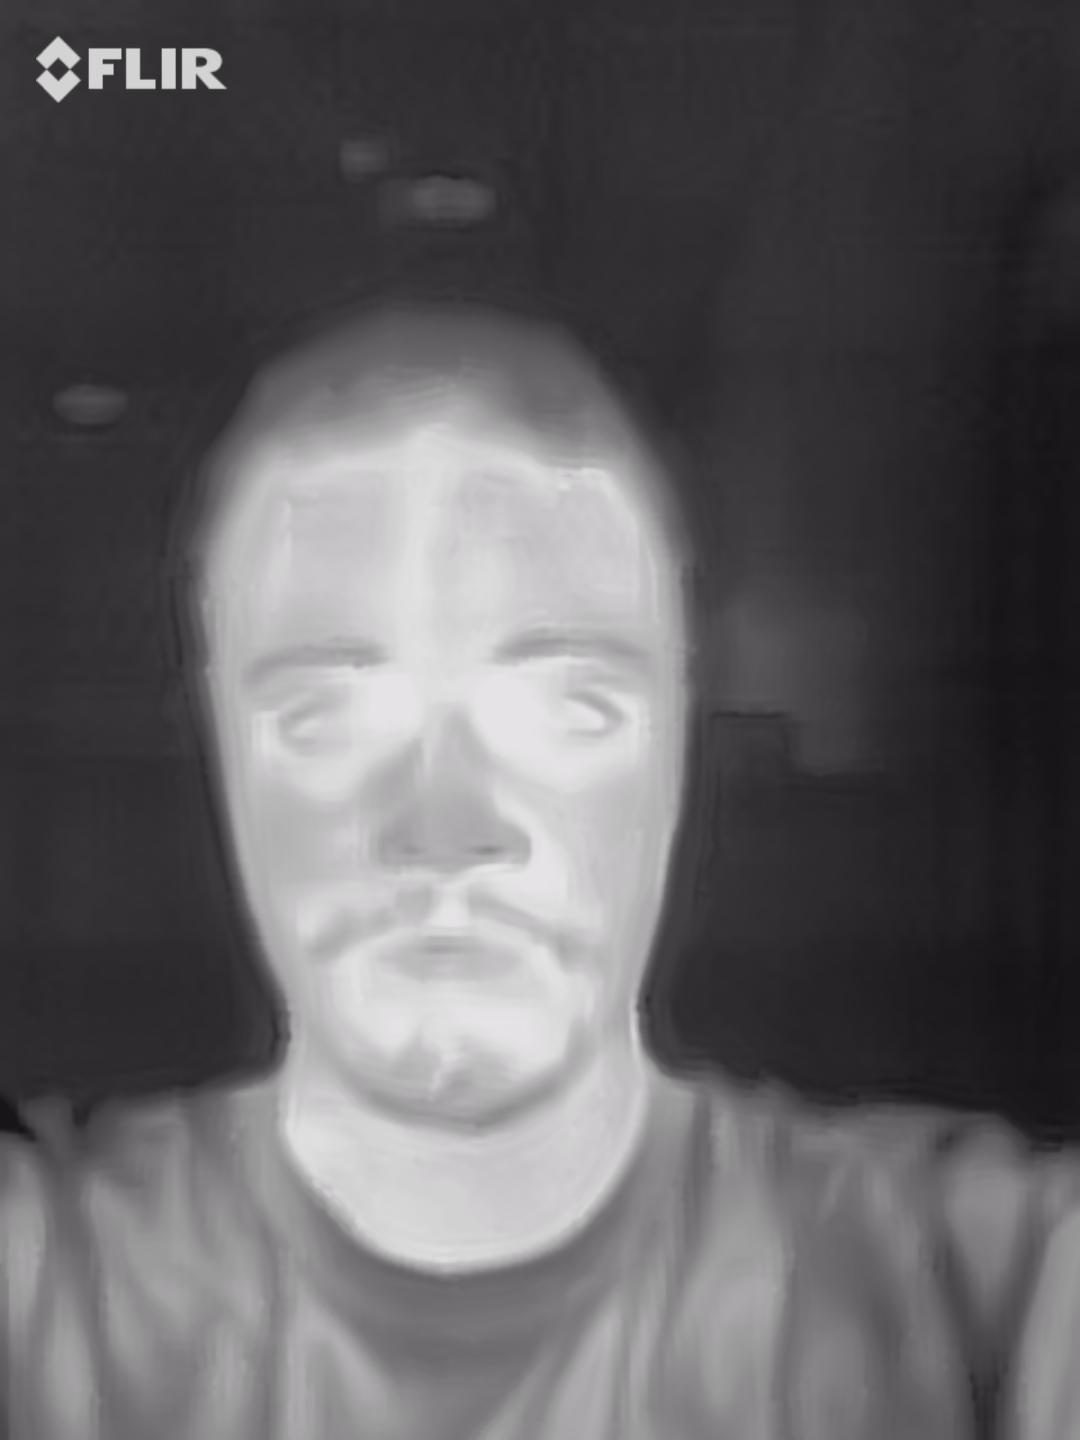
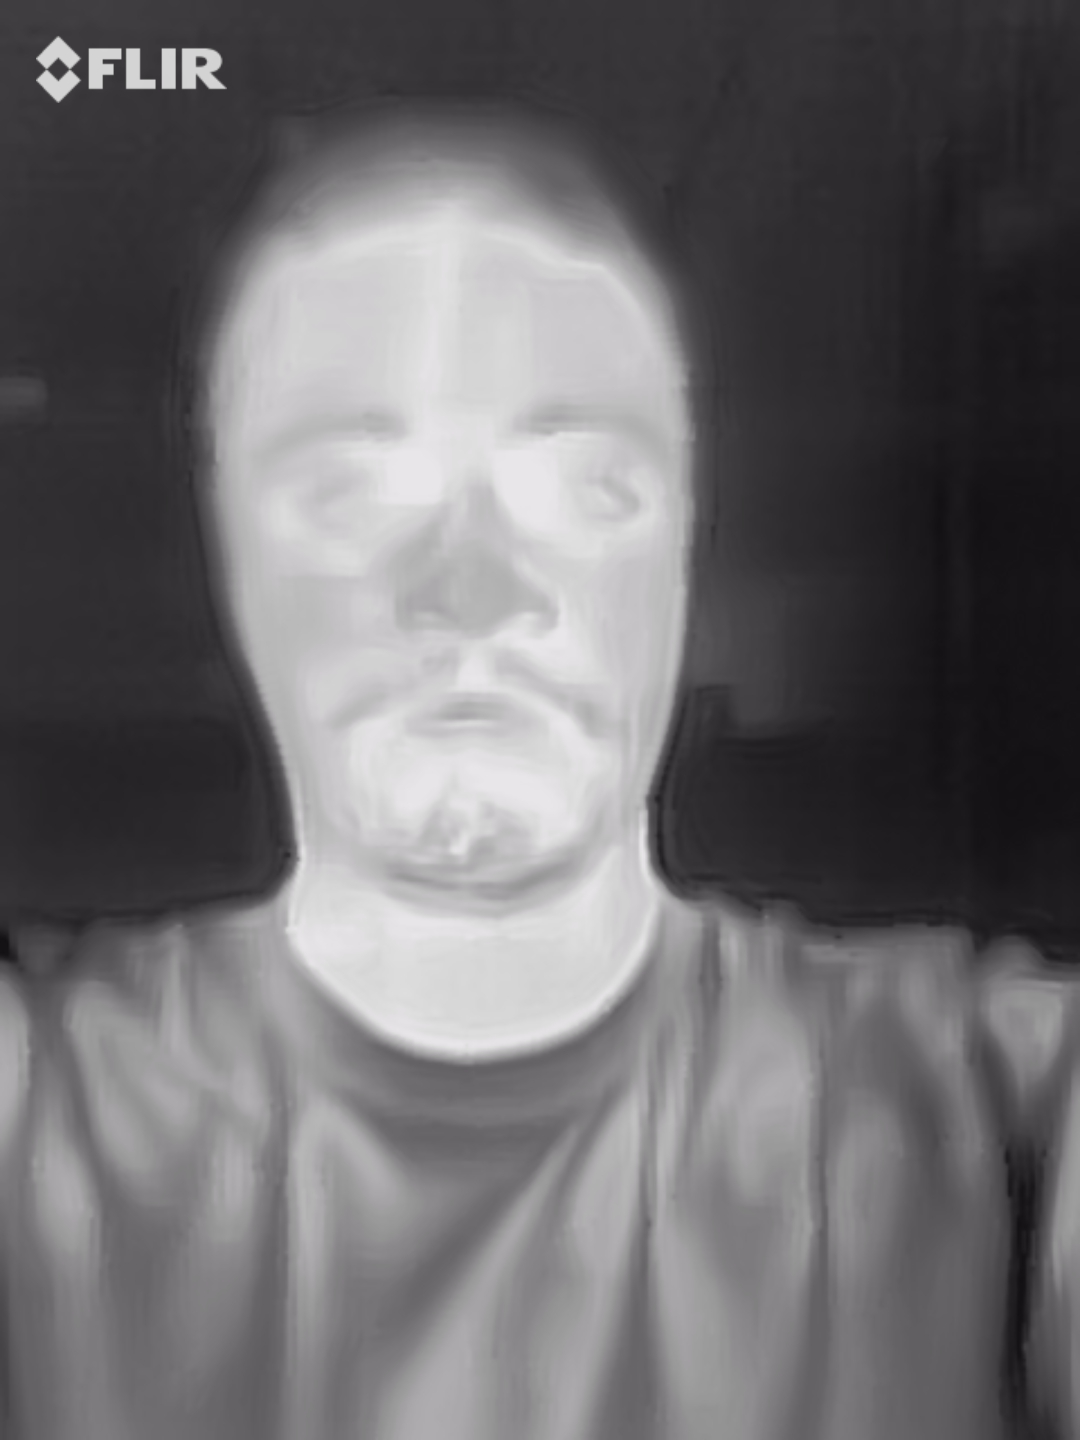
adjusted rgbthermal offset

diff --git a/app/src/main/java/rubenkarim/com/masterthesisapp/Algorithms/RgbThermalAlgorithm.java b/app/src/main/java/rubenkarim/com/masterthesisapp/Algorithms/RgbThermalAlgorithm.java
@@ -9,6 +9,7 @@ import com.flir.thermalsdk.androidsdk.image.BitmapAndroid;
 import com.flir.thermalsdk.image.ImageFactory;
 import com.flir.thermalsdk.image.JavaImageBuffer;
 import com.flir.thermalsdk.image.ThermalImageFile;
+import com.flir.thermalsdk.image.fusion.FusionMode;
 import com.google.android.gms.tasks.OnFailureListener;
 import com.google.android.gms.tasks.OnSuccessListener;
 import com.google.android.gms.tasks.Task;
@@ -48,30 +49,31 @@ public class RgbThermalAlgorithm {
 
     public void getGradientAndPositions(String thermalImagePath) {
         GradientModel gradientAndPositions = new GradientModel(100, null, null);
-        Bitmap thermalImage = ImageProcessing.convertToBitmap(thermalImagePath);
-        Bitmap imageConvertedToRgb = null;
-        double thermalImageWidth = thermalImage.getWidth();
-        double thermalImageHeight = thermalImage.getHeight();
-        double rgbImageWidth = 0;
-        double rgbImageHeight = 0;
-        double widthScalingFactor;
-        double heightScalingFactor;
+        Bitmap rgbImage = ImageProcessing.convertToBitmap(thermalImagePath);
+        double rgbImageWidth = rgbImage.getWidth();
+        double rgbImageHeight = rgbImage.getHeight();
+        double thermalImageWidth = 0;
+        double thermalImageHeight = 0;
+        int verticalOffset = 15;
+        int horizontalOffset = 10;
 
         try {
             ThermalImageFile thermalImageFile = (ThermalImageFile) ImageFactory.createImage(thermalImagePath);
-            JavaImageBuffer rgbImage = thermalImageFile.getFusion().getPhoto();
-            imageConvertedToRgb = BitmapAndroid.createBitmap(rgbImage).getBitMap();
-            rgbImageWidth = imageConvertedToRgb.getWidth();
-            rgbImageHeight = imageConvertedToRgb.getHeight();
+            thermalImageFile.getFusion().setFusionMode(FusionMode.THERMAL_ONLY);
+            JavaImageBuffer javaImageBuffer = thermalImageFile.getImage();
+            Bitmap thermalImage = BitmapAndroid.createBitmap(javaImageBuffer).getBitMap();
+            thermalImageWidth = thermalImage.getWidth();
+            thermalImageHeight = thermalImage.getHeight();
         }
         catch (IOException e) {
-            Logging.error("getGradientAndPosition", e);
+            Logging.error("getGradientAndPositions", e);
         }
 
-        widthScalingFactor = thermalImageWidth / rgbImageWidth;
-        heightScalingFactor = thermalImageHeight / rgbImageHeight;
+        // TODO: Remember to remove
+        double widthScalingFactor = thermalImageWidth / rgbImageWidth;
+        double heightScalingFactor = thermalImageHeight / rgbImageHeight;
 
-        FirebaseVisionImage firebaseVisionImage = ImageProcessing.convertToFirebaseVisionImage(imageConvertedToRgb);
+        FirebaseVisionImage firebaseVisionImage = ImageProcessing.convertToFirebaseVisionImage(rgbImage);
 
         FirebaseVisionFaceDetectorOptions options =
                 new FirebaseVisionFaceDetectorOptions.Builder()
@@ -102,12 +104,12 @@ public class RgbThermalAlgorithm {
                                             FirebaseVisionFaceLandmark leftEye = faces.get(0).getLandmark(FirebaseVisionFaceLandmark.LEFT_EYE);
                                             if (leftEye != null) {
                                                 // TODO: Split into multiple lines in order to debug
-                                                gradientAndPositions.setEyePosition(new int[]{(int) (leftEye.getPosition().getX() * widthScalingFactor), (int) (leftEye.getPosition().getY() * heightScalingFactor)});
+                                                gradientAndPositions.setEyePosition(new int[]{(int) (leftEye.getPosition().getX() * widthScalingFactor + horizontalOffset), (int) (leftEye.getPosition().getY() * heightScalingFactor + verticalOffset)});
                                             }
                                             FirebaseVisionFaceLandmark nose = faces.get(0).getLandmark(FirebaseVisionFaceLandmark.NOSE_BASE);
                                             if (nose != null) {
                                                 // TODO: Split into multiple lines in order to debug
-                                                gradientAndPositions.setNosePosition(new int[]{(int) (nose.getPosition().getX() * widthScalingFactor), (int) (nose.getPosition().getY() * heightScalingFactor)});
+                                                gradientAndPositions.setNosePosition(new int[]{(int) (nose.getPosition().getX() * widthScalingFactor), (int) (nose.getPosition().getY() * heightScalingFactor + verticalOffset)});
                                             }
 
                                             ((MarkerActivity) markerActivityReference).setPicture(gradientAndPositions);

diff --git a/app/src/main/java/rubenkarim/com/masterthesisapp/Activities/MarkerActivity.java b/app/src/main/java/rubenkarim/com/masterthesisapp/Activities/MarkerActivity.java
@@ -19,6 +19,9 @@ import com.flir.thermalsdk.androidsdk.image.BitmapAndroid;
 import com.flir.thermalsdk.image.ImageFactory;
 import com.flir.thermalsdk.image.JavaImageBuffer;
 import com.flir.thermalsdk.image.ThermalImageFile;
+import com.flir.thermalsdk.image.fusion.FusionMode;
+
+import java.io.IOException;
 
 import androidx.appcompat.app.AppCompatActivity;
 import rubenkarim.com.masterthesisapp.Algorithms.Cnn;
@@ -136,9 +139,24 @@ public class MarkerActivity extends AppCompatActivity {
     public void setPicture(GradientModel gradientAndPositions) {
         try {
             this.gradientAndPositions = gradientAndPositions;
+            Bitmap originalThermalImageBitmap = null;
             ImageProcessing.FixImageOrientation(thermalImagePath);
 
-            Bitmap originalThermalImageBitmap = ImageProcessing.convertToBitmap(thermalImagePath);
+            if (GlobalVariables.getCurrentAlgorithm() == GlobalVariables.Algorithms.RgbThermalMapping) {
+                try {
+                    ThermalImageFile thermalImageFile = (ThermalImageFile) ImageFactory.createImage(thermalImagePath);
+                    thermalImageFile.getFusion().setFusionMode(FusionMode.THERMAL_ONLY);
+                    JavaImageBuffer javaImageBuffer = thermalImageFile.getImage();
+                    originalThermalImageBitmap = BitmapAndroid.createBitmap(javaImageBuffer).getBitMap();
+                }
+                catch (IOException e) {
+                    Logging.error("getGradientAndPositions", e);
+                }
+            }
+            else {
+                originalThermalImageBitmap = ImageProcessing.convertToBitmap(thermalImagePath);
+            }
+
             imageView_thermalImageContainer.setImageBitmap(originalThermalImageBitmap);
             int[] imageOriginalDimensions = new int[]{originalThermalImageBitmap.getWidth(), originalThermalImageBitmap.getHeight()};
 
@@ -151,6 +169,7 @@ public class MarkerActivity extends AppCompatActivity {
         }
     }
 
+    // TODO: Make it work on the RGB pictures
     private void addMarkers(int[] imageOriginalDimensions, int[] imageViewDimensions, int horizontalOffset) {
         try {
             int markerWidthHeight = 200;

diff --git a/app/src/main/java/rubenkarim/com/masterthesisapp/Activities/CameraActivity.java b/app/src/main/java/rubenkarim/com/masterthesisapp/Activities/CameraActivity.java
@@ -187,9 +187,13 @@ public class CameraActivity extends AppCompatActivity {
 
     private void setupDefaultImage() {
         try {
-            String defaultImageName = "Thermal_Test_Img3.jpg";
+            String defaultImageName = "Thermal_Test_Img1.jpg";
             ThermalImageFile thermalImageFile = (ThermalImageFile) ImageFactory.createImage(getAssets().open(defaultImageName));
-            thermalImageFile.getFusion().setFusionMode(FusionMode.VISUAL_ONLY);
+            thermalImageFile.getFusion().setFusionMode(
+                    GlobalVariables.getCurrentAlgorithm() == GlobalVariables.Algorithms.RgbThermalMapping ?
+                            FusionMode.VISUAL_ONLY
+                            : FusionMode.THERMAL_ONLY
+            );
             thermalImagePath = Environment.getExternalStoragePublicDirectory(Environment.DIRECTORY_PICTURES).getPath() + "/Masterthesisimages/" + defaultImageName;
             thermalImageFile.saveAs(thermalImagePath);
             imageView_cameraPreviewContainer.setImageBitmap(ImageProcessing.convertToBitmap(thermalImagePath));
